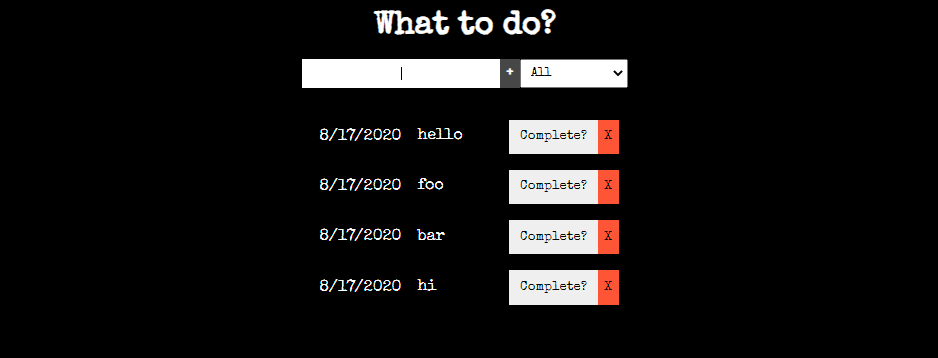
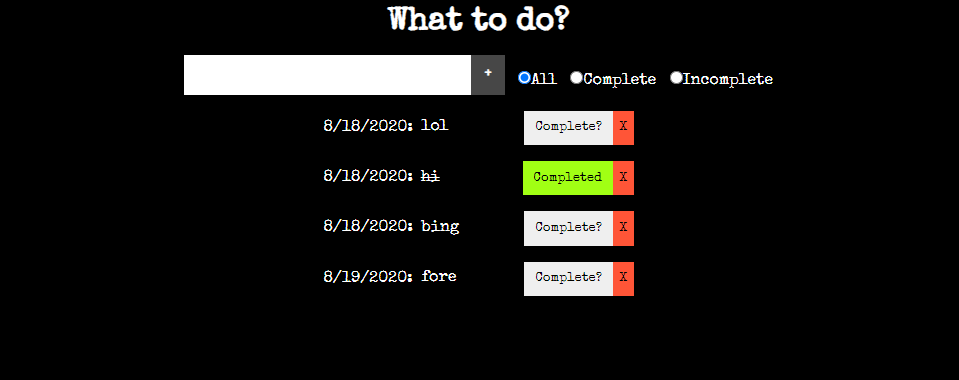
update

diff --git a/projects/todos/index.js b/projects/todos/index.js
@@ -1,10 +1,6 @@
 const inputBox = document.getElementById('input')
 const add = document.getElementById('add')
 const ul = document.getElementById('list')
-// const filter = document.getElementById('filter')
-// const radioBtns = document.querySelectorAll('.radio-btn')
-// const all = document.getElementById('all')
-// const complete = document.getElementById()
 const radioDiv = document.querySelector('.radio-btn-container')
 const todoDiv = document.querySelector('.todo-div')
 
@@ -12,8 +8,6 @@ radioDiv.addEventListener('click',filterTodos)
 add.addEventListener('click', checkContent)
 ul.addEventListener('click',completeOrDelete)
 document.addEventListener('DOMContentLoaded',getTodos)
-
-// filter.addEventListener('click',filterTodos)
 
 function filterTodos(e){
     let todos = JSON.parse(localStorage.getItem('todos'))
@@ -64,7 +58,7 @@ function addTodo(td){
     ul.appendChild(todoDiv)
     let date = document.createElement('div')
     date.classList.add('date')
-    date.innerText = `${datePosted}`
+    date.innerText = `${datePosted}:`
     todoDiv.appendChild(date)
     let li = document.createElement('li')
     li.classList.add('list-item')

diff --git a/projects/todos/style.css b/projects/todos/style.css
@@ -7,17 +7,26 @@ body{
     background-color: black;
     color: white;
 }
-
 main{
 
+}
+#input-container{
+    display: flex;
+}
+#input{
+    font-size: 1.2em;
+}
+.radio-btn-container{
+display: flex;
+margin-top: 1em;
 }
 header,form{
     display: flex;
     justify-content: center;
+    flex-wrap: wrap;
     margin-top: 1em;
 }
 form input,form button{
-    font-size: 1.2;
     padding: .5em;
     border: none;
     text-align: center;
@@ -29,6 +38,8 @@ form button{
 }
 #add{
     font-weight: bold;
+    padding: 1em;
+    margin-left: 0;
 }
 .radio-btn{
     margin-left: 1em;

diff --git a/projects/todos/index.html b/projects/todos/index.html
@@ -14,8 +14,12 @@
     </header>
     <main>
         <form action="#">
-            <input id="input" type="text" maxlength="20">
-            <button id="add" type="submit">+</button>
+            <div id="input-container">
+
+                <input id="input" type="text" maxlength="20">
+                <button id="add" type="submit">+</button>
+            
+            </div>
             <div class="radio-btn-container">
 
                 <div class="radio-div" id="all">
